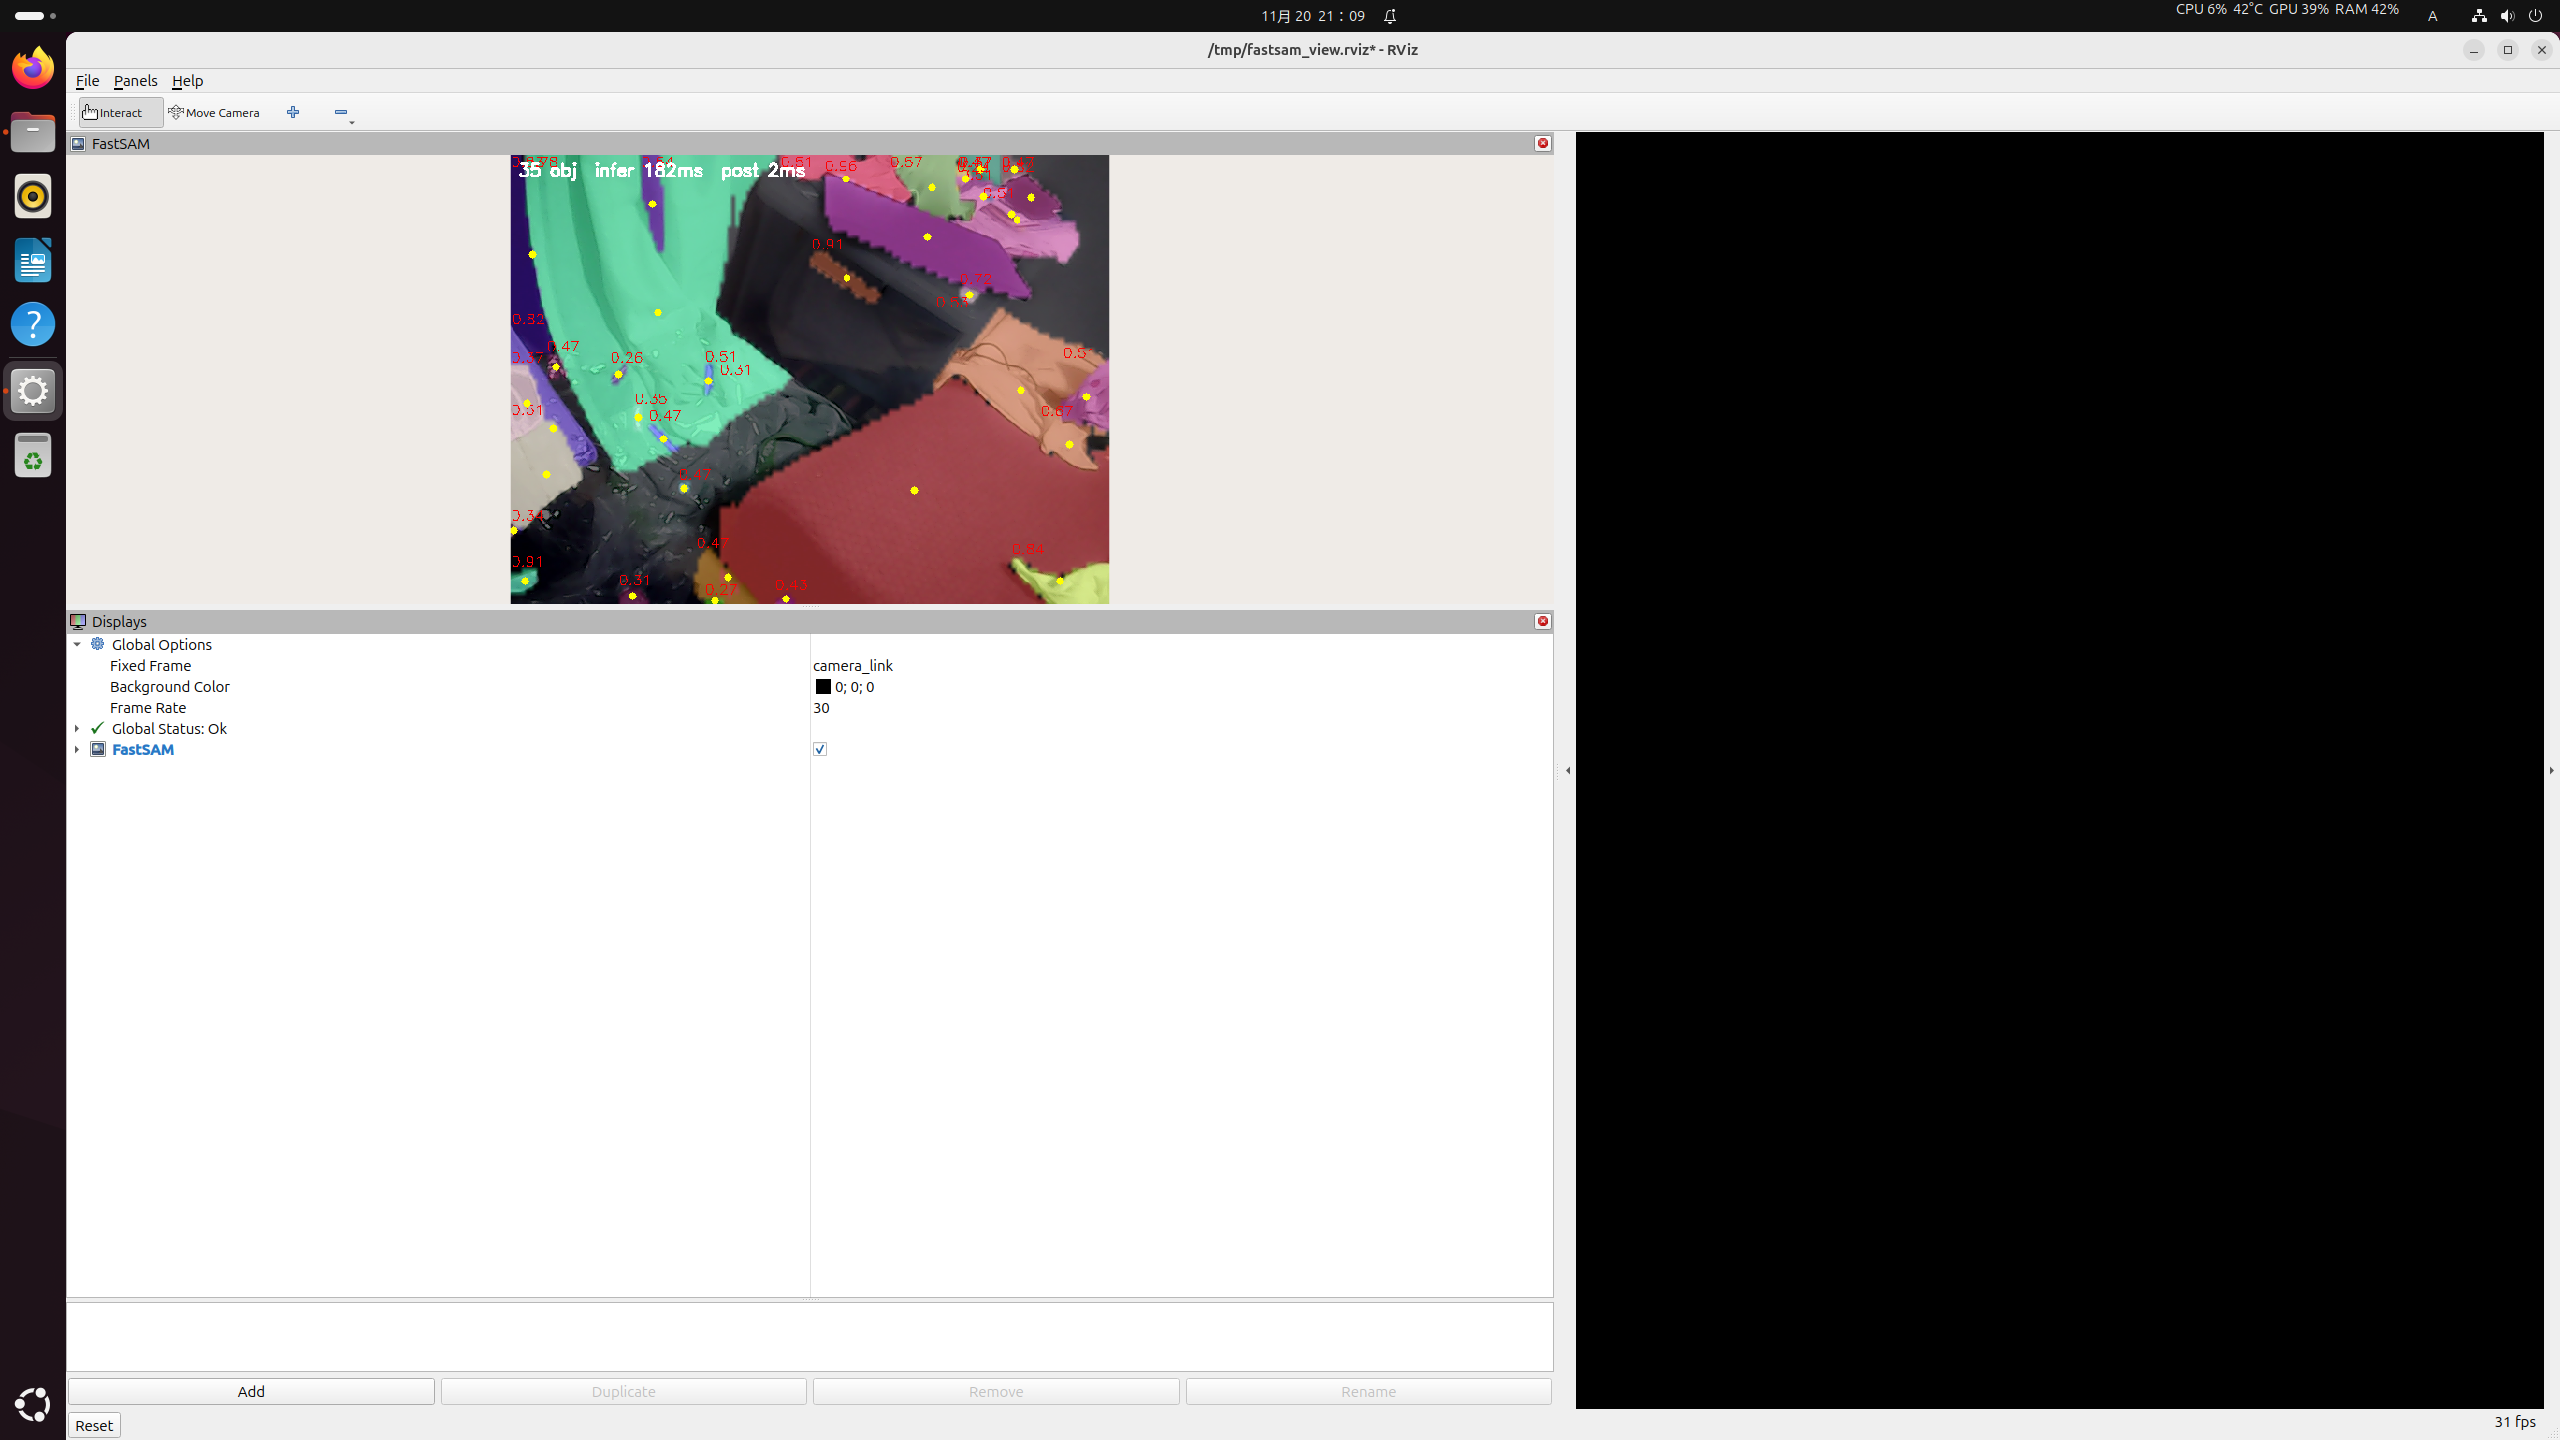
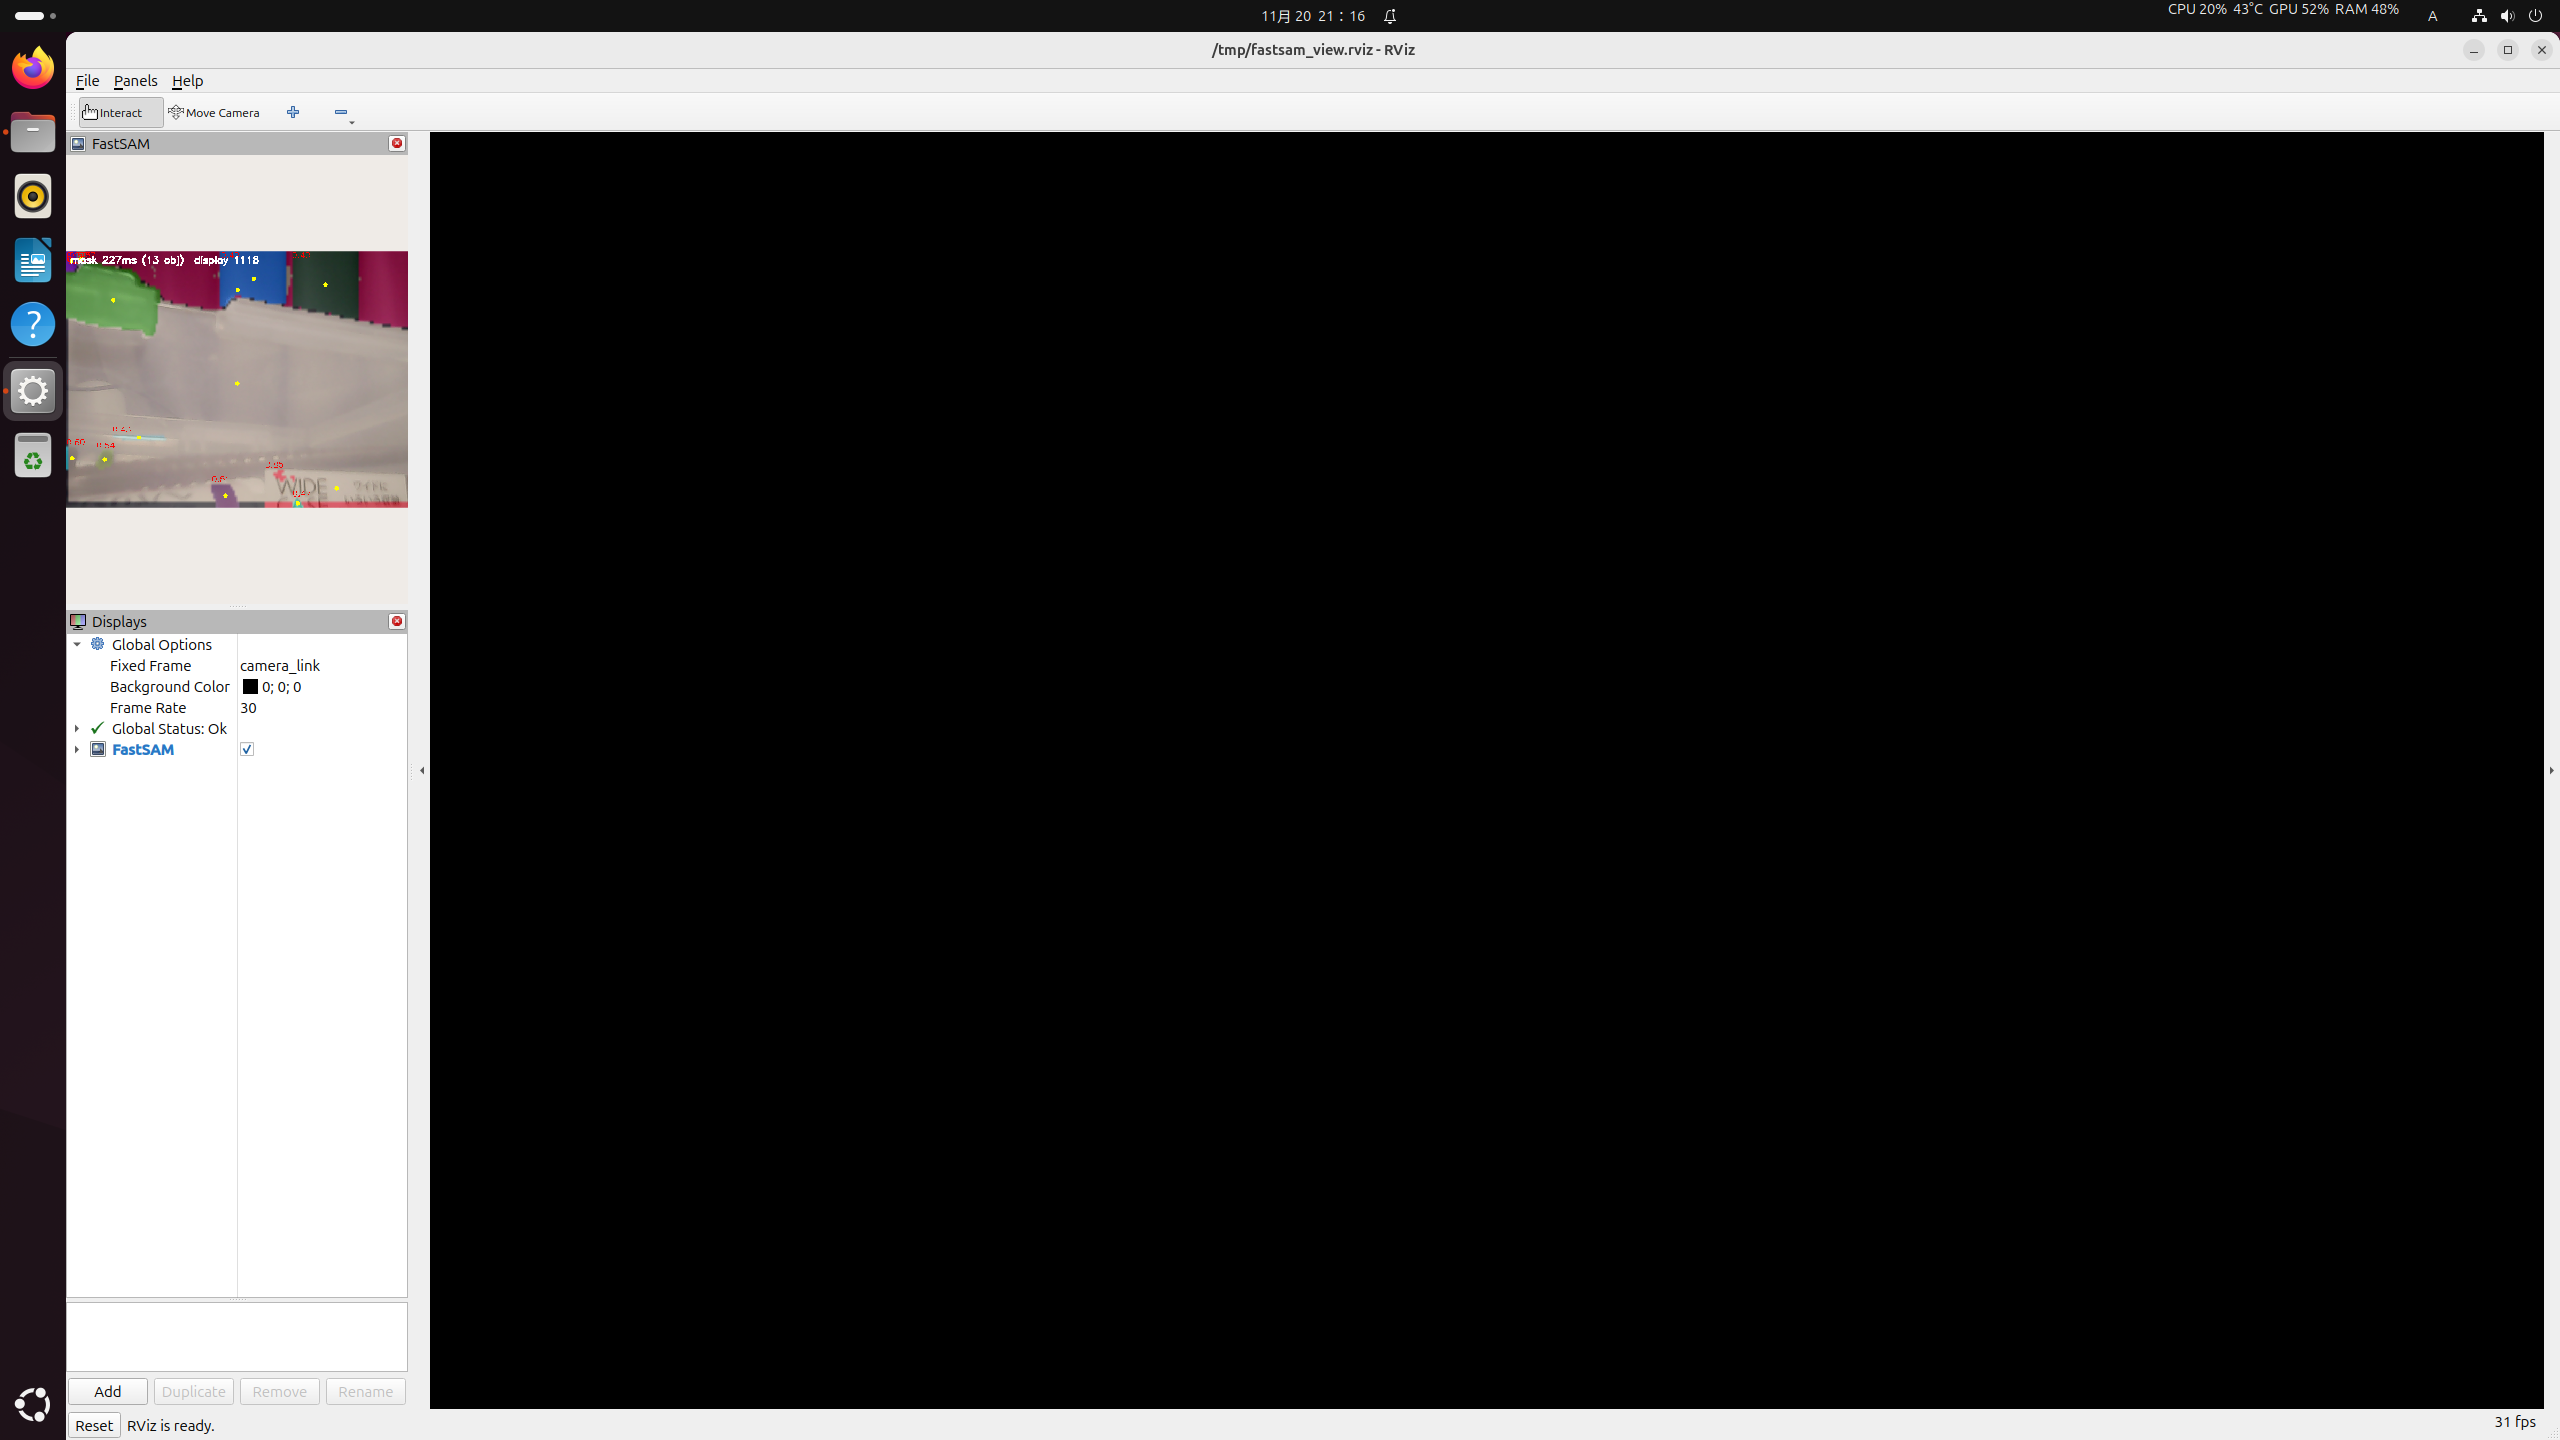
fix(fastsam): keep only the newest frame so the view stops lagging
The loop captured, inferred and published in one thread. The camera delivers
25.3 fps but inference takes 182 ms, so frames queued in V4L2 and the display
showed a picture several seconds old - read() returned in 0-1 ms, which is the
tell that the queue never emptied.

Split capture+publish from inference and hand over only the newest frame. Display
now runs at 22.1 fps (camera-bound) with the mask refreshing at 4.6 fps, so
latency is fixed at one frame plus inference instead of growing.

Also records why 30 fps is out of reach here: the camera tops out at 25.3 fps and
the fastest shipped mask model needs 57 ms.

diff --git a/tools/fastsam/fastsam_stream.cc b/tools/fastsam/fastsam_stream.cc
@@ -7,8 +7,12 @@
 //   fastsam_stream <model.rknn> [/dev/video0] [topic]
 #include <sys/time.h>
 
+#include <chrono>
+#include <condition_variable>
 #include <cstdio>
 #include <cstring>
+#include <mutex>
+#include <thread>
 #include <memory>
 #include <string>
 #include <vector>
@@ -21,6 +25,15 @@
 #include "rknn_api.h"
 
 namespace {
+
+/// 検出 1 件（ピクセル座標）。推論スレッドから配信スレッドへ渡す。
+struct Rect {
+  int xmin = 0;
+  int ymin = 0;
+  int xmax = 0;
+  int ymax = 0;
+  float conf = 0.0f;
+};
 
 constexpr int kCaptureWidth = 640;
 constexpr int kCaptureHeight = 480;
@@ -67,17 +80,123 @@ class FastSamNode : public rclcpp::Node {
   }
 
   void Spin() {
-    while (rclcpp::ok()) {
-      cv::Mat bgr;
-      if (!cap_.read(bgr) || bgr.empty()) {
+    // 表示と推論を分ける。FastSAM-x の推論は約 180 ms（5.5 fps）で、
+    // カメラは 25 fps 出る。逐次だと「数秒前の絵」になり、配信レートも
+    // 推論に引きずられる。取得・配信はカメラレートで回し、
+    // マスクだけを推論スレッドで更新する。
+    std::thread infer([this] { InferLoop(); });
+    CaptureAndPublish();
+    stop_ = true;
+    cond_.notify_all();
+    if (infer.joinable()) infer.join();
+  }
+
+  /// カメラから読んで、最新のマスクを重ねて配信する（カメラレート）。
+  void CaptureAndPublish() {
+    while (rclcpp::ok() && !stop_) {
+      cv::Mat frame;
+      if (!cap_.read(frame) || frame.empty()) {
         RCLCPP_WARN_THROTTLE(get_logger(), *get_clock(), 2000, "フレーム取得に失敗");
         continue;
       }
-      Annotate(bgr);
+      {
+        std::lock_guard<std::mutex> lock(mutex_);
+        latest_ = frame;              // 推論側へ渡す
+        latest_at_ms_ = NowMs();
+        has_frame_ = true;
+      }
+      cond_.notify_one();
+      Publish(Compose(frame));
+      ++frame_;
+      if (frame_ % 50 == 0) {
+        RCLCPP_INFO(get_logger(),
+                    "配信 %d フレーム  推論 %d 回  捨てた %ld  マスク遅延 %.0f ms",
+                    frame_, infer_count_, dropped_, NowMs() - mask_at_ms_);
+      }
     }
   }
 
+  /// 最新フレームを取ってきて推論し、マスクを差し替える（推論レート）。
+  void InferLoop() {
+    while (!stop_) {
+      cv::Mat frame;
+      {
+        std::unique_lock<std::mutex> lock(mutex_);
+        cond_.wait(lock, [this] { return has_frame_ || stop_; });
+        if (stop_) break;
+        frame = latest_.clone();
+        if (infer_busy_) {
+          ++dropped_;  // 推論中に来たフレームは捨てる
+        }
+        has_frame_ = false;
+        infer_busy_ = true;
+      }
+      const double t0 = NowMs();
+      cv::Mat mask;
+      std::vector<Rect> rects;
+      RunInference(frame, mask, rects);
+      const double t1 = NowMs();
+      {
+        std::lock_guard<std::mutex> lock(mutex_);
+        mask_overlay_ = mask;
+        rects_ = rects;
+        mask_at_ms_ = NowMs();
+        infer_busy_ = false;
+        ++infer_count_;
+      }
+      last_infer_ms_ = t1 - t0;
+    }
+  }
+
+  /// 最新フレームに最新マスクを重ねる。マスクは推論時点のものなので、
+  /// 動く物体では枠が少しずれる（表示は滑らか、マスクは 5.5 fps）。
+  cv::Mat Compose(const cv::Mat& bgr) {
+    cv::Mat mask;
+    std::vector<Rect> rects;
+    {
+      std::lock_guard<std::mutex> lock(mutex_);
+      mask = mask_overlay_;
+      rects = rects_;
+    }
+    cv::Mat canvas = bgr.clone();
+    if (!mask.empty() && mask.size() == bgr.size()) {
+      cv::addWeighted(canvas, 0.45, mask, 0.55, 0, canvas);
+    }
+    for (const Rect& r : rects) {
+      const cv::Point center((r.xmin + r.xmax) / 2, (r.ymin + r.ymax) / 2);
+      cv::putText(canvas, cv::format("%.2f", r.conf),
+                  cv::Point(r.xmin, std::max(12, r.ymin - 4)),
+                  cv::FONT_HERSHEY_SIMPLEX, 0.5, cv::Scalar(0, 0, 255), 1);
+      cv::circle(canvas, center, 4, cv::Scalar(0, 255, 255), -1);
+    }
+    cv::putText(canvas,
+                cv::format("mask %.0fms (%d obj)  display %d", last_infer_ms_,
+                           static_cast<int>(rects.size()), frame_),
+                cv::Point(8, 22), cv::FONT_HERSHEY_SIMPLEX, 0.6,
+                cv::Scalar(255, 255, 255), 2);
+    return canvas;
+  }
+
+
  private:
+  void CaptureLoop() {
+    while (!stop_) {
+      cv::Mat frame;
+      if (!cap_.read(frame) || frame.empty()) {
+        RCLCPP_WARN_THROTTLE(get_logger(), *get_clock(), 2000, "フレーム取得に失敗");
+        continue;
+      }
+      std::lock_guard<std::mutex> lock(mutex_);
+      if (has_frame_) {
+        ++dropped_;  // 推論が終わっていない間に来たフレームは捨てる
+      }
+      latest_ = frame;
+      latest_at_ms_ = NowMs();
+      has_frame_ = true;
+      cond_.notify_one();
+    }
+  }
+
   bool LoadModel(const std::string& path) {
     FILE* fp = fopen(path.c_str(), "rb");
     if (fp == nullptr) {
@@ -134,7 +253,8 @@ class FastSamNode : public rclcpp::Node {
     return true;
   }
 
-  void Annotate(const cv::Mat& bgr) {
+  /// 推論して、フレームと同じ大きさの着色マスクと矩形を作る。
+  void RunInference(const cv::Mat& bgr, cv::Mat& mask_out, std::vector<Rect>& rects_out) {
     cv::Mat rgb;
     cv::cvtColor(bgr, rgb, cv::COLOR_BGR2RGB);
     cv::Mat resized;
@@ -145,11 +265,9 @@ class FastSamNode : public rclcpp::Node {
     }
     input_.buf = resized.data;
 
-    const double t0 = NowMs();
     rknn_inputs_set(ctx_, n_input_, &input_);
     rknn_run(ctx_, nullptr);
     rknn_outputs_get(ctx_, n_output_, outputs_.data(), nullptr);
-    const double t1 = NowMs();
 
     // postprocess.cc は int8 の生ポインタ配列を要求する
     std::vector<int8_t*> blobs(static_cast<size_t>(n_output_));
@@ -157,45 +275,24 @@ class FastSamNode : public rclcpp::Node {
       blobs[i] = static_cast<int8_t*>(outputs_[i].buf);
     }
 
-    std::vector<float> rects;
+    std::vector<float> flat;
     cv::Mat seg_mask = cv::Mat::zeros(88, 160, CV_8UC3);
     GetResultRectFastSAM post;
-    post.GetConvDetectionResult(blobs.data(), out_zps_, out_scales_, rects, seg_mask);
+    post.GetConvDetectionResult(blobs.data(), out_zps_, out_scales_, flat, seg_mask);
     for (int i = 0; i < n_output_; ++i) {
       rknn_outputs_release(ctx_, 1, &outputs_[i]);
     }
-    const double t2 = NowMs();
 
-    cv::Mat mask_resized;
-    cv::resize(seg_mask, mask_resized, cv::Size(bgr.cols, bgr.rows), 0, 0, cv::INTER_LINEAR);
-    cv::Mat canvas;
-    cv::addWeighted(bgr, 0.45, mask_resized, 0.55, 0, canvas);
-
-    const int objects = static_cast<int>(rects.size() / 6);
-    for (int i = 0; i + 5 < static_cast<int>(rects.size()); i += 6) {
-      const float conf = rects[i + 1];
-      const int xmin = static_cast<int>(rects[i + 2] * bgr.cols + 0.5f);
-      const int ymin = static_cast<int>(rects[i + 3] * bgr.rows + 0.5f);
-      const int xmax = static_cast<int>(rects[i + 4] * bgr.cols + 0.5f);
-      const int ymax = static_cast<int>(rects[i + 5] * bgr.rows + 0.5f);
-      const cv::Point center((xmin + xmax) / 2, (ymin + ymax) / 2);
-      char label[32];
-      snprintf(label, sizeof(label), "%.2f", conf);
-      cv::putText(canvas, label, cv::Point(xmin, std::max(12, ymin - 4)),
-                  cv::FONT_HERSHEY_SIMPLEX, 0.5, cv::Scalar(0, 0, 255), 1);
-      cv::circle(canvas, center, 4, cv::Scalar(0, 255, 255), -1);
-    }
-    cv::putText(canvas,
-                cv::format("%d obj  infer %.0fms  post %.0fms", objects, t1 - t0, t2 - t1),
-                cv::Point(8, 22), cv::FONT_HERSHEY_SIMPLEX, 0.6,
-                cv::Scalar(255, 255, 255), 2);
-
-    Publish(canvas);
-
-    ++frame_;
-    if (frame_ % 20 == 0) {
-      RCLCPP_INFO(get_logger(), "%d obj  infer %.1f ms  post %.1f ms",
-                  objects, t1 - t0, t2 - t1);
+    cv::resize(seg_mask, mask_out, cv::Size(bgr.cols, bgr.rows), 0, 0, cv::INTER_LINEAR);
+    rects_out.clear();
+    for (int i = 0; i + 5 < static_cast<int>(flat.size()); i += 6) {
+      Rect r;
+      r.conf = flat[i + 1];
+      r.xmin = static_cast<int>(flat[i + 2] * bgr.cols + 0.5f);
+      r.ymin = static_cast<int>(flat[i + 3] * bgr.rows + 0.5f);
+      r.xmax = static_cast<int>(flat[i + 4] * bgr.cols + 0.5f);
+      r.ymax = static_cast<int>(flat[i + 5] * bgr.rows + 0.5f);
+      rects_out.push_back(r);
     }
   }
 
@@ -234,6 +331,19 @@ class FastSamNode : public rclcpp::Node {
   cv::VideoCapture cap_;
   rclcpp::Publisher<sensor_msgs::msg::Image>::SharedPtr pub_;
   int frame_ = 0;
+  cv::Mat latest_;
+  double latest_at_ms_ = 0.0;
+  cv::Mat mask_overlay_;
+  std::vector<Rect> rects_;
+  double mask_at_ms_ = 0.0;
+  double last_infer_ms_ = 0.0;
+  int infer_count_ = 0;
+  bool infer_busy_ = false;
+  std::mutex mutex_;
+  std::condition_variable cond_;
+  bool has_frame_ = false;
+  bool stop_ = false;
+  long dropped_ = 0;
 };
 
 int main(int argc, char** argv) {

diff --git a/tools/fastsam/README.md b/tools/fastsam/README.md
@@ -146,8 +146,33 @@ obj 6: conf=0.53  bbox=(525,304)-(640,478)  center=(582,391)  norm=(0.910, 0.815
 
 ![RViz ウィンドウ](fastsam_rviz_window.png)
 
-実測（640x480 カメラ、FastSAM-x）: **配信 4.4 Hz**、推論 182 ms、後処理 2 ms、
-18 物体。画面左上に「18 obj infer 182ms post 2ms」を焼き込んでいる。
+実測（640x480 カメラ、FastSAM-x）: **配信 22.1 Hz / マスク更新 4.6 Hz**、
+推論 182 ms。画面左上に「mask 227ms (13 obj)」を焼き込んでいる。
+
+### ラグの原因と対策（実測）
+
+最初の実装は「取得 → 推論 → 配信」を 1 本のループで回していた。カメラは
+**25.3 fps** 出るのに推論は **182 ms（5.5 fps）**なので、V4L2 のキューに
+フレームが溜まり続け、**常に数秒前の絵**を表示していた。`cap.read()` が
+0〜1 ms で返る（＝キューが空にならない）ことがその証拠。
+
+対策として取得・配信と推論をスレッドで分離し、**推論するのは常に最新フレーム
+だけ**にした（古いフレームは捨てる）。結果、配信はカメラレートの 22.1 fps に
+なり、遅延は「1 フレーム + 推論時間」に固定される。
+
+| | 配信 | マスク更新 | 体感 |
+|---|---|---|---|
+| 逐次（修正前） | 4.4 Hz | 4.4 Hz | 数秒遅れてカクつく |
+| 分離（修正後） | **22.1 Hz** | 4.6 Hz | 滑らか、枠は 0.2 秒遅れ |
+
+### 30 fps について
+
+- **カメラの上限が 25.3 fps**（640x480 でも 320x240 でも同じ）。このカメラでは
+  30 fps は出せない。
+- マスク自体を 30 fps にするには推論 33 ms 以下が必要。現状 182 ms（FastSAM-x）、
+  最速の FastSAM-s でも 57 ms（17.5 fps）なので**届かない**。
+- 到達させるには入力解像度を下げた `.rknn` を作る（画素比で効く。
+  320x176 なら約 1/4）。ONNX の再エクスポートと変換が要る（`tools/rknn/README.md`）。
 
 ### ビルド
 
